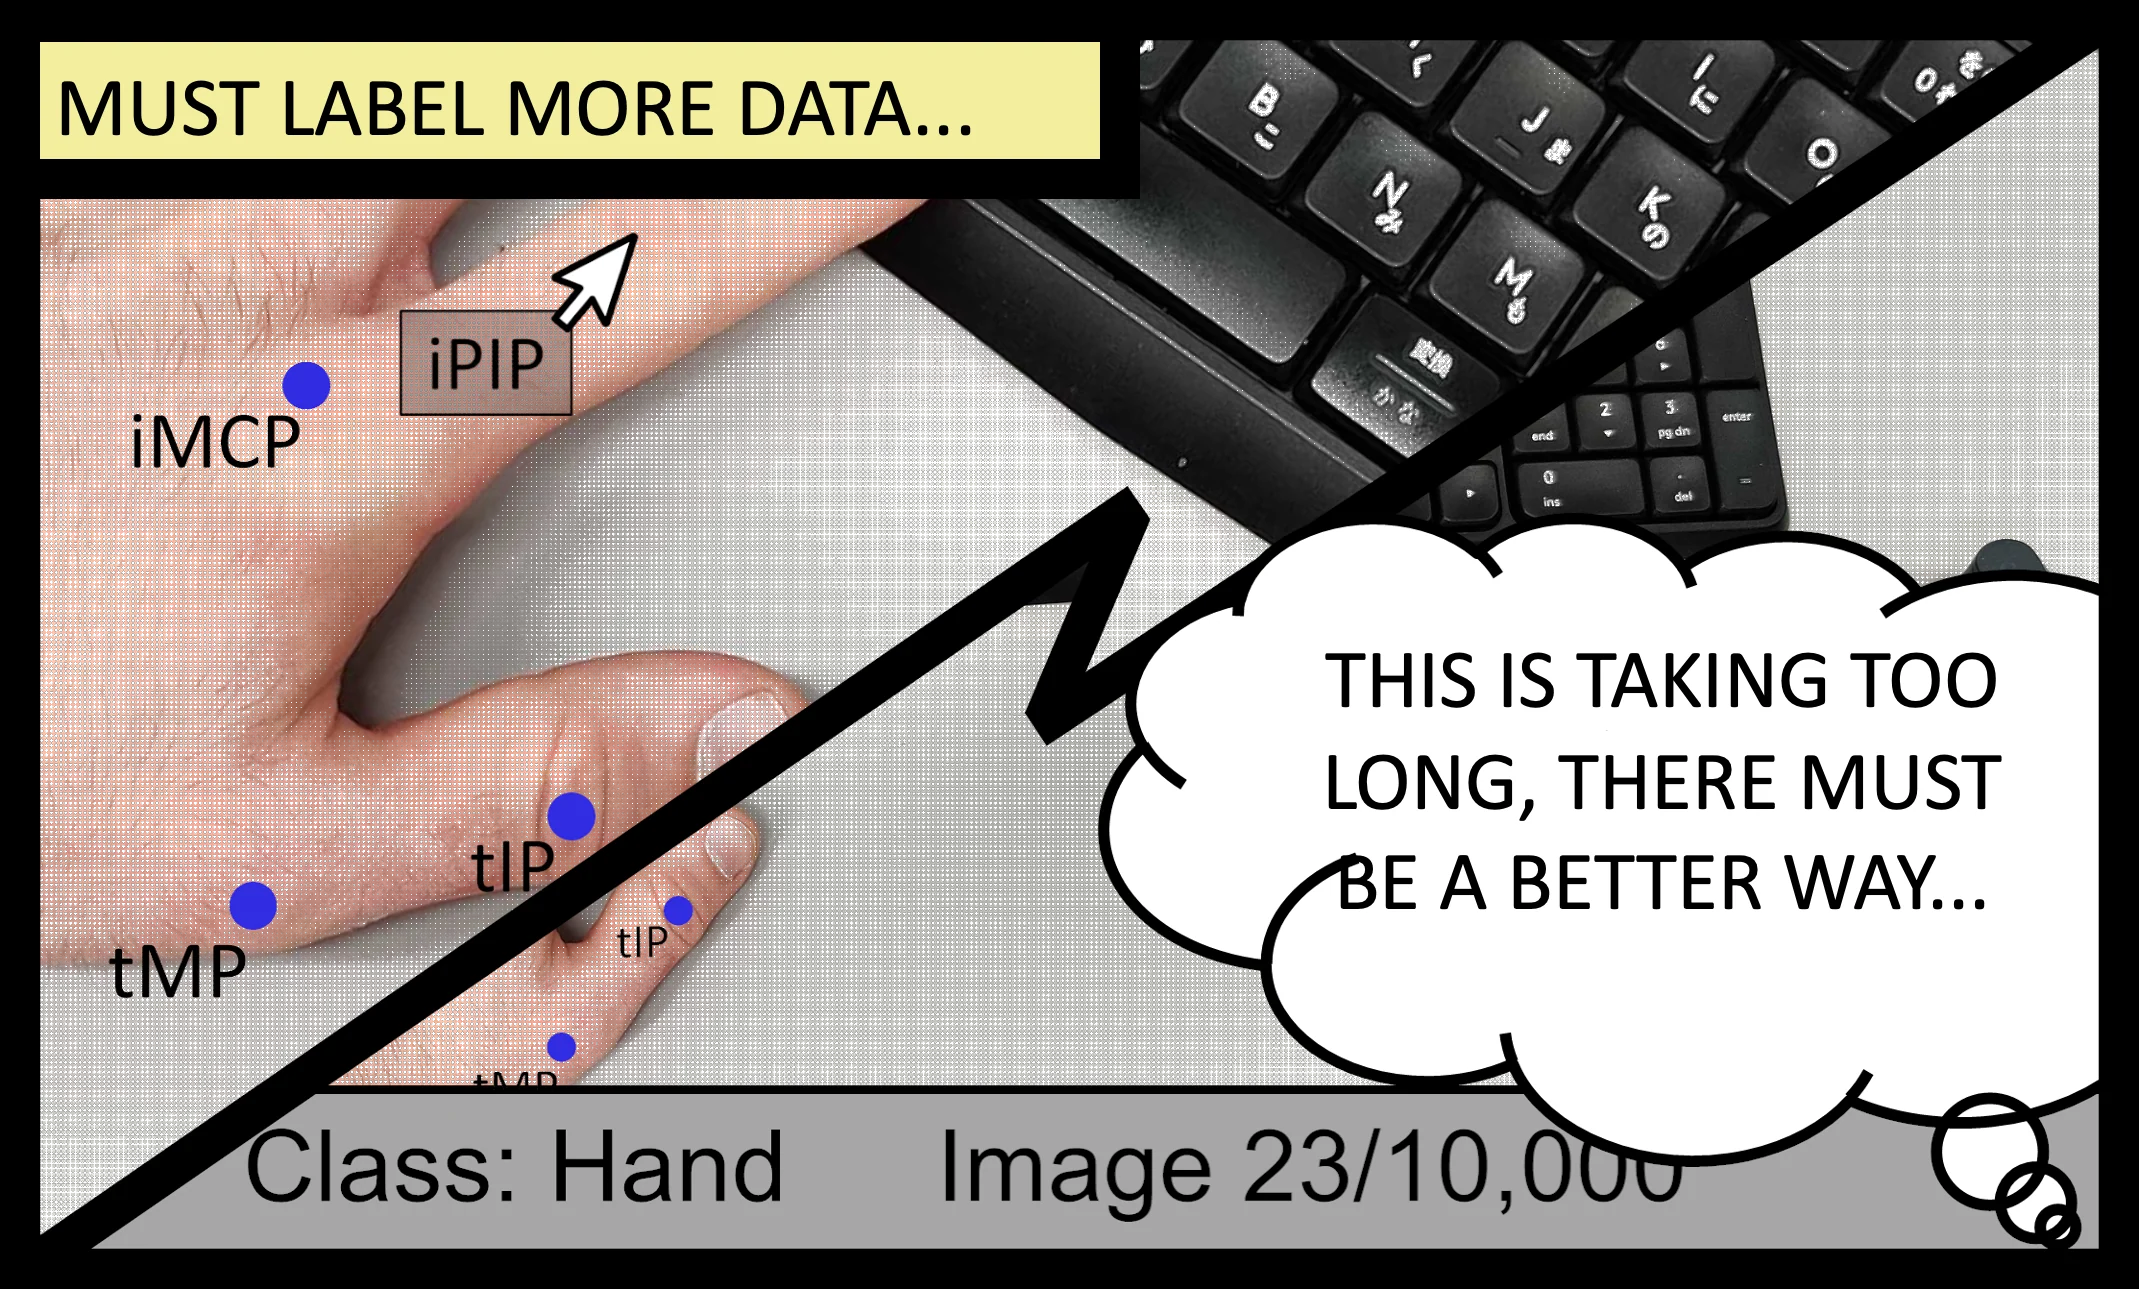
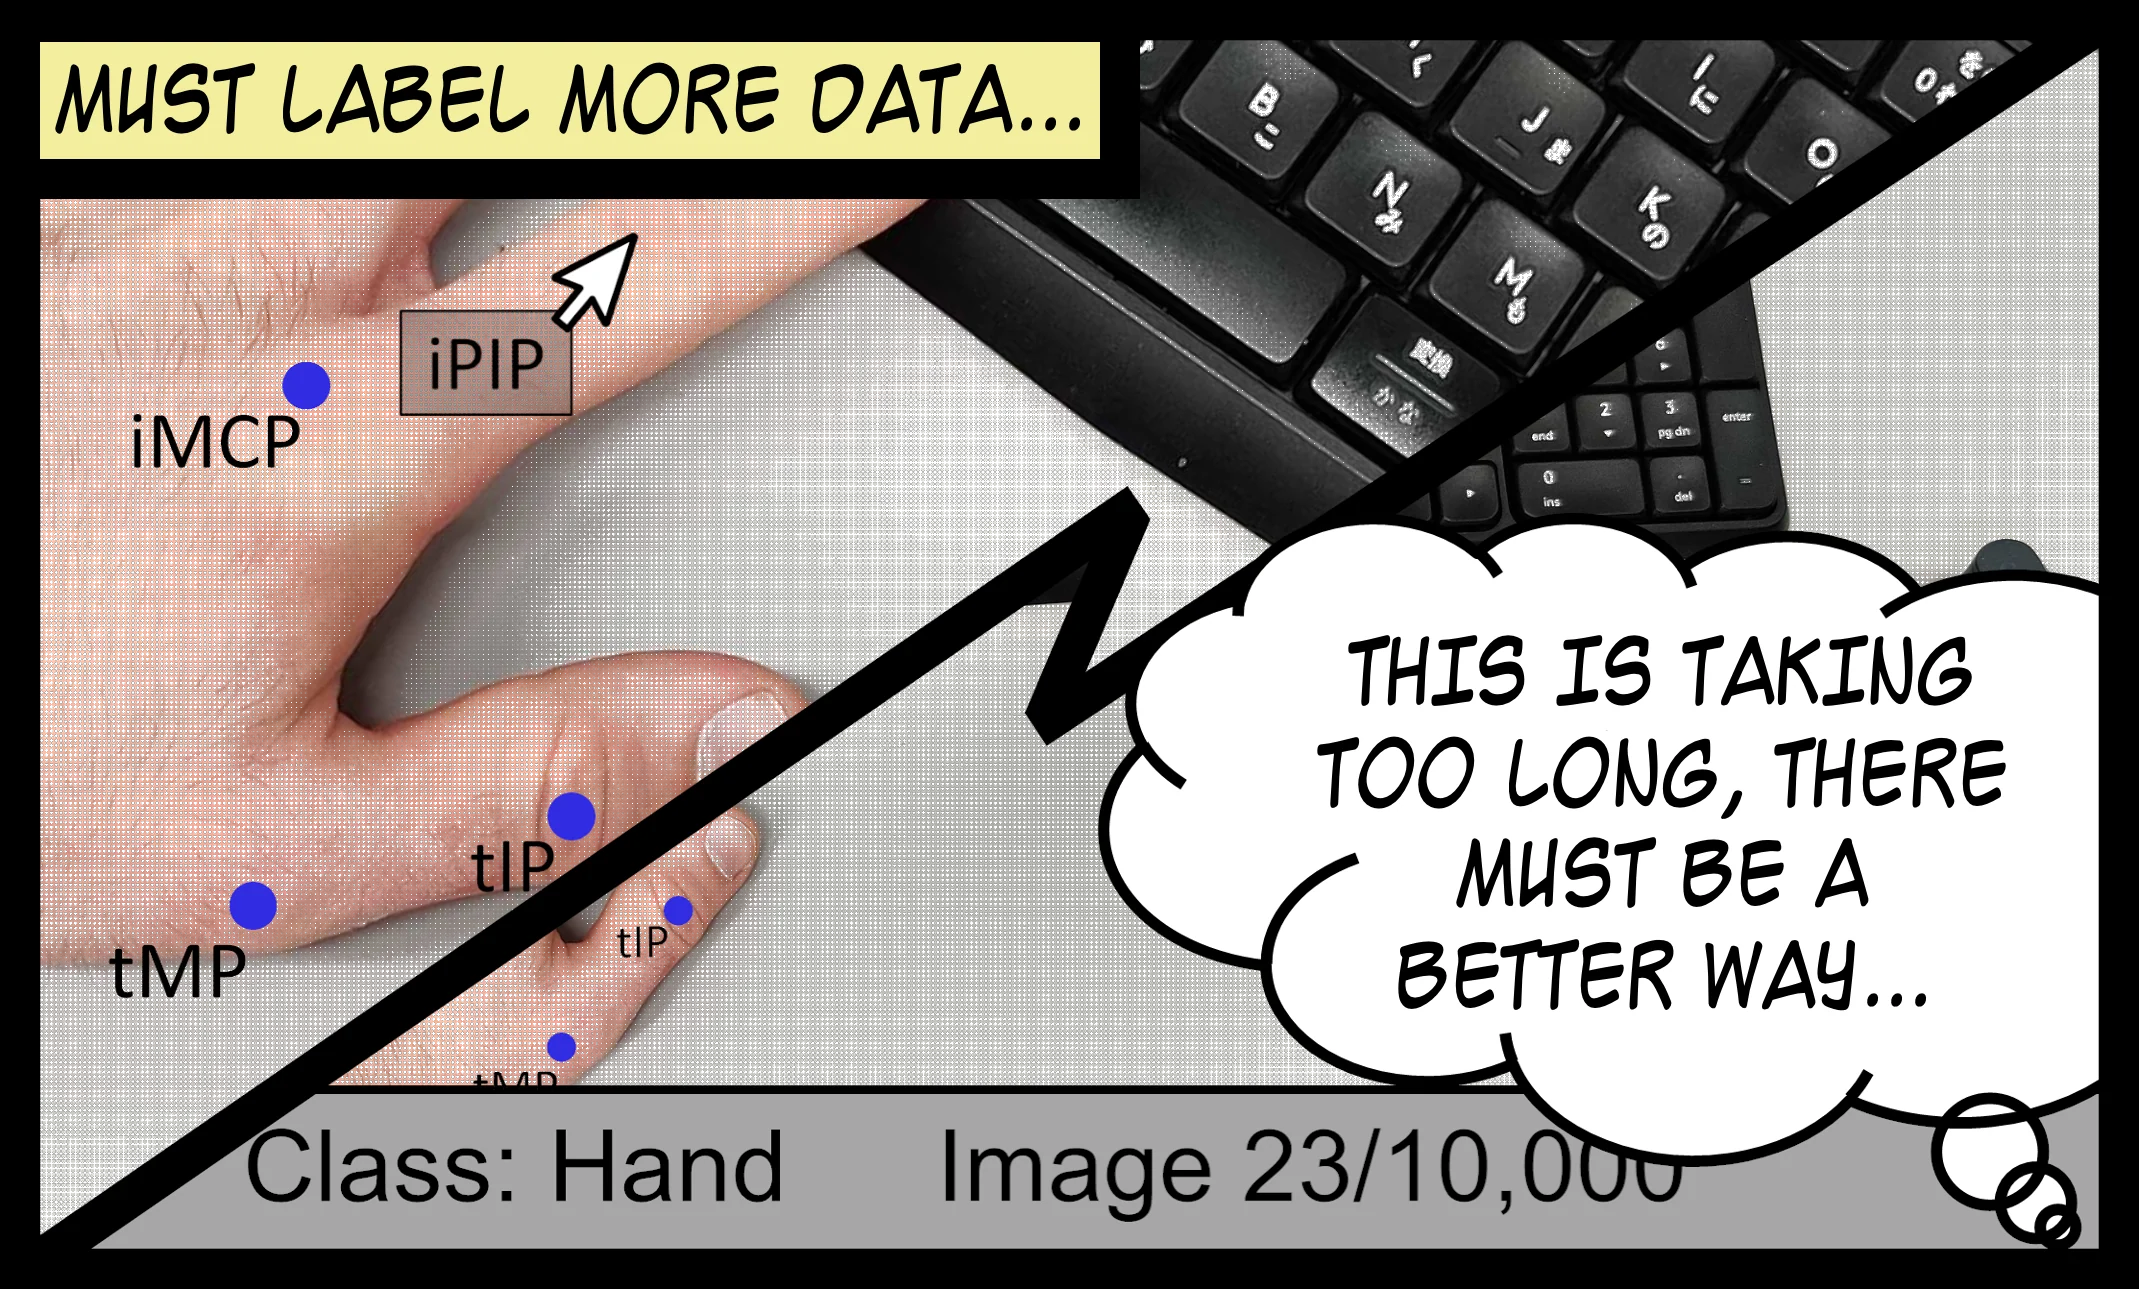
Optimize 2024 symposium poster assets
Link symposium PDFs as posters.

Changed region(s): [[0.6168, 0.4961, 0.9561, 0.8062], [0.0308, 0.031, 0.4935, 0.124]]

diff --git a/photos.generated.js b/photos.generated.js
@@ -584,7 +584,12 @@ window.DISSEMINATION_DATA = [
     "thumbnail": "files/dissemination/2024_symposium/2024_symposium-thumb.webp",
     "imageAlt": "AIST DHRT 2024 poster about pose estimator training with synthetic data",
     "previewTitle": "AIST DHRT Symposium 2024 Poster",
-    "documents": [],
+    "documents": [
+      {
+        "label": "Poster",
+        "url": "files/dissemination/2024_symposium/2024_symposium.pdf"
+      }
+    ],
     "order": 13
   },
   {
@@ -699,7 +704,12 @@ window.DISSEMINATION_DATA = [
     "thumbnail": "files/dissemination/2019_symposium/2019_symposium-thumb.webp",
     "imageAlt": "Hand motion illustration from the 2019 School of Engineering Postgraduate Symposium poster",
     "previewTitle": "School of Engineering Postgraduate Symposium 2019 Poster",
-    "documents": [],
+    "documents": [
+      {
+        "label": "Poster",
+        "url": "files/dissemination/2019_symposium/2019_symposium.pdf"
+      }
+    ],
     "order": 14
   },
   {
